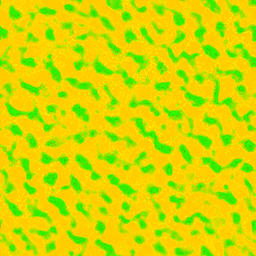
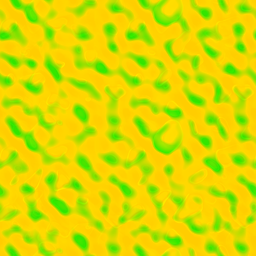
634HD fresh textures: painterly-realistic art for the 10 kept textures
The photoreal art read as noise next to the 2010 models. The 10 kept
textures (505, 70, 96, 309, 82, 66, 91, 90, 154, 181) now use art in the
117HD middle ground (634hd_pt-<id>, tools/pt_prompt.txt: clean readable
shapes, soft painted shading, no photographic speckle), fitted with
contrast 1.0-1.3 times the game's and no ground sharpening. Their fresh/
relief is softened (wider blur, half the strength): at full strength the
new art's edges lit as speckle. Parity, smoke and the build pass.

diff --git a/tools/make_fresh_textures.py b/tools/make_fresh_textures.py
@@ -57,6 +57,8 @@ GAIN = 0.8
 CONTRAST_FLOOR = 1.6
 # the realistic mode: art with a tiling seam above this (make_material_maps.seam) is cross-faded
 SEAM_LIMIT = 1.5
+# painterly art: contrast between these times the game texture's
+PAINTERLY_CONTRAST = (1.0, 1.3)
 EPS = 0.03
 
 # texture id -> (name, material map class, generation it takes its detail from). A texture that is
@@ -141,10 +143,14 @@ def back_project(fresh, game):
 
 
 def generated_hd(texture):
-    """The newest realistic art for [texture] (634hd_hd-<id>; with tools/hd_prompt.txt, or for the
-    textures whose fine detail vanished on screen tools/hd_prompt_bold.txt), or None."""
-    names = sorted(f for f in os.listdir(GENERATED) if f.startswith('634hd_hd-%d_' % texture) and f.endswith(('.png', '.jpg', '.jpeg')))
-    return os.path.join(GENERATED, names[-1]) if names else None
+    """The newest art for [texture]: painterly-realistic (634hd_pt-<id>, tools/pt_prompt.txt) when there
+    is one, else photoreal (634hd_hd-<id>; tools/hd_prompt.txt, or hd_prompt_bold.txt for textures
+    whose fine detail vanished on screen), or None."""
+    for prefix in ('634hd_pt-%d_', '634hd_hd-%d_'):
+        names = sorted(f for f in os.listdir(GENERATED) if f.startswith(prefix % texture) and f.endswith(('.png', '.jpg', '.jpeg')))
+        if names:
+            return os.path.join(GENERATED, names[-1])
+    return None
 
 
 def make_realistic(texture, name, cls, art, path):
@@ -167,13 +173,16 @@ def make_realistic(texture, name, cls, art, path):
     up = lum(np.asarray(wrap_resize(game, SIZE), dtype=np.float64) / 255.0)
     shading = maps.blur(up, broad)
     shading = shading / max(shading.mean(), 1e-6)
-    if texture in GROUND:
+    painterly = os.path.basename(path).startswith('634hd_pt-')
+    if texture in GROUND and not painterly:
         # ground seen from afar: pebble clusters a few texels wide are what survives the distance, so
         # that band is lifted (an unsharp mask at that scale) and the contrast goes to the cap
         flat = flat + GROUND_PUNCH * (flat - maps.blur(flat, SIZE / 48))
     detail = flat - flat.mean()
-    floor = 2.0 if texture in GROUND else CONTRAST_FLOOR
-    contrast = float(np.clip(detail.std(), floor * own.std(), 2.0 * own.std()))
+    # painterly art keeps close to the game texture's contrast: its shapes read by themselves
+    floor = PAINTERLY_CONTRAST[0] if painterly else 2.0 if texture in GROUND else CONTRAST_FLOOR
+    cap = PAINTERLY_CONTRAST[1] if painterly else 2.0
+    contrast = float(np.clip(detail.std(), floor * own.std(), cap * own.std()))
     detail *= contrast / max(detail.std(), 1e-6)
     grey = np.clip((own.mean() + detail) * shading, 0.0, 1.0)
     hue = rgb.reshape(-1, 3).mean(axis=0) / max(own.mean(), 1e-6)
@@ -192,8 +201,8 @@ def make_realistic(texture, name, cls, art, path):
     if os.path.exists(sidecar):
         shutil.copy(sidecar, os.path.join(folder, 'fresh', 'generate.json'))
     with open(os.path.join(folder, 'fresh', 'recipe.txt'), 'w') as f:
-        f.write('Realistic texture %d (%s), by tools/make_fresh_textures.py from ~/Pictures/generations/%s\n' % (texture, name, os.path.basename(path)))
-        f.write('(nano-banana-2 at 2K, tools/hd_prompt.txt, a blurred layout guide of the game texture as the reference;\n')
+        f.write('%s texture %d (%s), by tools/make_fresh_textures.py from ~/Pictures/generations/%s\n' % ('Painterly' if painterly else 'Realistic', texture, name, os.path.basename(path)))
+        f.write('(nano-banana-2 at 2K, tools/pt_prompt.txt or hd_prompt.txt, a blurred layout guide of the game texture as the reference;\n')
         f.write('the prompt is in generate.json). Grey with the game texture\'s hue (%.2f %.2f %.2f), its mean brightness %.2f and broad\n' % (hue[0], hue[1], hue[2], own.mean()))
         f.write('shading; contrast %.3f (game %.3f).%s Tiling seam %.2f.\n' % (contrast, own.std(), ' Shine mask in alpha.' if texture in SHINE_MASKS else '', maps.seam(grey)))
     maps.make(texture, name, cls, fresh='realistic')
@@ -254,7 +263,7 @@ def main():
         if gain is None:
             continue
         by_texture[texture]['albedo'] = 'albedo.png'
-        print('made %d %s (%s x%.2f)' % (texture, name, 'realistic, contrast' if generated_hd(art) else 'fresh, detail', gain))
+        print('made %d %s (%s x%.2f)' % (texture, name, ('painterly' if os.path.basename(generated_hd(art)).startswith('634hd_pt-') else 'realistic') + ', contrast' if generated_hd(art) else 'fresh, detail', gain))
     with open(path, 'w') as f:
         json.dump({'materials': entries}, f, indent=2)
         f.write('\n')

diff --git a/tools/make_material_maps.py b/tools/make_material_maps.py
@@ -157,7 +157,10 @@ def make(texture, name, cls, fresh=False):
     lum = rgb @ np.array([0.299, 0.587, 0.114])
     grain = None
     if fresh == 'realistic':
-        # the realistic mode: the relief is the new art's own
+        # the realistic mode: the relief is the new art's own, softened (wider blur, half the strength):
+        # at full strength its fine edges light as speckle in game
+        strength *= 0.5
+        soften = max(soften, 2.5)
         rgb = np.asarray(wrap_resize(Image.open(os.path.join(OUT, str(texture), 'albedo.png')).convert('RGB'), Image.BICUBIC), dtype=np.float64) / 255.0
         lum = rgb @ np.array([0.299, 0.587, 0.114])
     elif fresh:

diff --git a/docs/RENDERING.md b/docs/RENDERING.md
@@ -291,7 +291,12 @@ start (`--hd name=value,...` in the launcher), `::hd <name> <value>` while playi
   75, 387, 163 and 159) got normal, occlusion/roughness and height maps from
   `tools/make_material_maps.py` (which now keeps the entries it does not make, such as 634HD's own
   materials); 42 sets in all.
-- **Fresh textures.** `tools/make_fresh_textures.py`, realistic mode (used for every texture with a
+- **Fresh textures.** The 10 kept textures now use painterly-realistic art (`634hd_pt-<id>`,
+  `tools/pt_prompt.txt`: clean readable shapes with soft painted shading, no photographic speckle, in
+  the 117HD middle ground), fitted with contrast 1.0-1.3 times the game's and no ground sharpening;
+  their `fresh/` relief is softened (wider blur, half the strength), since full-strength relief from
+  the new art lit as speckle. The photoreal art below stays as the fallback.
+  `tools/make_fresh_textures.py`, realistic mode (used for every texture with a
   `634hd_hd-<id>` generation): photoreal art from `/generate` (nano-banana-2 at 2K, prompt
   `tools/hd_prompt.txt`; the reference is the game texture scaled up and blurred, so it sets only scale
   and layout and the art is not a repaint of the old pixels) is the texture itself, fitted to the
